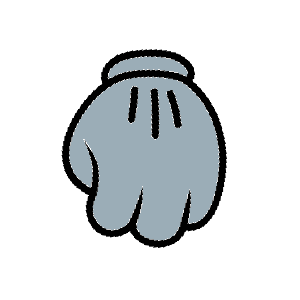
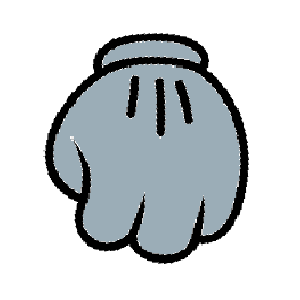
fixed image sizing, added classes to highlight the choices made in the game a reset of the transformations

Changed region(s): [[0.15, 0.09, 0.84, 0.9]]

diff --git a/index.html b/index.html
@@ -15,23 +15,34 @@
 <body>
     <h1> Rock  Paper  Scissor</h1>
 
-    <div class="computer-container">
+    <!-- <div class="computer-container">
         <img src="images/computer.png">
-    </div>
+    </div> -->
 
     <div class="computer-selection">
-        <img src="images/rockC.png">
-        <img src="images/paperC.png">
-        <img src="images/scissorC.png">
+        <img src="images/rockC.png" id="rockC">
+        <img src="images/paperC.png" id="paperC">
+        <img src="images/scissorC.png" id="scissorC">
     </div>
     
 
-    <div class="main-screen"></div>
+    <div class="main-screen">
+        <div class="screen-container">
+            <div class="scoreboard">
+                <div class="player-score">Player Score: 0</div>
+                <div class="round-number">Round 1</div>
+                <div class="computer-score"> Computer Score: 0</div>
+            </div>
+            <div class="screen">Make your choice!</div>
+        </div>
+    
+    </div>
 
-    <img src="images/rockP.png" class="btn btn-rock">
-    <img src="images/paperP.png" class="btn btn-paper">
-    <img src="images/scissorP.png" class="btn btn-scissor">
-
+    <div class="player-selection">
+        <img src="images/rockP.png" class="btn btn-rock" id="rock">
+        <img src="images/paperP.png" class="btn btn-paper" id="paper">
+        <img src="images/scissorP.png" class="btn btn-scissor" id="scissor">
+    </div>
 
     <script>
         function getComputerChoice() {
@@ -49,20 +60,41 @@
         function playRound(playerSelection) {
             const computerSelection = getComputerChoice()
             const playerChoice = playerSelection.toLowerCase()
+            resetTransform()
 
             if (computerSelection === playerChoice) {
+                transformPlayedChoice(`#${computerSelection}`)
+                transformPlayedChoice(`#${computerSelection}C`)
                 return "Its a Draw!"
+
             } else if (computerSelection === "rock" && playerChoice === "paper") {
+                transformPlayedChoice(`#${playerChoice}`)
+                transformPlayedChoice(`#${computerSelection}C`)
                 return "You Win! Paper beats rock"
+
             } else if (computerSelection === "rock" && playerChoice === "scissor") {
+                transformPlayedChoice(`#${playerChoice}`)
+                transformPlayedChoice(`#${computerSelection}C`)
                 return "You Lose! Rock beats scissor"
+
             } else if (computerSelection === "paper" && playerChoice === "rock") {
+                transformPlayedChoice(`#${playerChoice}`)
+                transformPlayedChoice(`#${computerSelection}C`)
                 return "You Lose! Paper beats rock"
+
             } else if (computerSelection === "paper" && playerChoice === "scissor") {
+                transformPlayedChoice(`#${playerChoice}`)
+                transformPlayedChoice(`#${computerSelection}C`)
                 return "You Win! Scissor beats paper"
+
             } else if (computerSelection === "scissor" && playerChoice === "rock") {
+                transformPlayedChoice(`#${playerChoice}`)
+                transformPlayedChoice(`#${computerSelection}C`)
                 return "You Win! Rock beats scissor"
+
             } else if (computerSelection === "scissor" && playerChoice === "paper") {
+                transformPlayedChoice(`#${playerChoice}`)
+                transformPlayedChoice(`#${computerSelection}C`)
                 return "You Lose! Scissor beats paper"
             }
         }
@@ -80,14 +112,31 @@
         const buttons = document.querySelectorAll('.btn')
         buttons.forEach((button) => {
             button.addEventListener('click', () => {
-                writeOnMainScreen(playRound(`${button.textContent}`))
+                writeOnMainScreen(playRound(`${button.id}`))
             })
         })
 
+
+
+        
         function writeOnMainScreen(string) {
-            let mainScreen = document.querySelector(".main-screen")
+            let mainScreen = document.querySelector(".screen")
             mainScreen.textContent = string
         }
+
+        function transformPlayedChoice(choice) {
+            const selection = document.querySelector(`${choice}`)
+            selection.classList.add('played')
+        }
+
+        function resetTransform() {
+            const transformedClasses = document.querySelectorAll('.played')
+            console.log(transformedClasses)
+            transformedClasses.forEach( (transed) => { 
+                transed.classList.remove('played')
+            })
+        }
+
 
     </script>
 </body>

diff --git a/style.css b/style.css
@@ -19,18 +19,60 @@ h1 {
 }
 
 img {
-    max-width: 200px;
+    max-width: 150px;
 }
 
 .computer-container img {
     max-width: 300px;
 }
 
-.computer-selection {
+.computer-selection, .player-selection {
     display: flex;
     justify-content:center;
     gap: 5rem;
+    padding-top: 2rem;
+}
 
+
+.main-screen {
+    display: flex;
+    justify-content: center;
+    min-height: 100px;
+    margin: 75px;
+}
+ 
+
+.screen-container {
+    display:flex;
+    flex-direction: column;
+    display:flex;
+    /* background-color: white; */
+    min-height: 100px;
+    width: 80%;
+    align-items: center;
+    justify-content: space-between;
+    font-size: 2rem;
+}
+
+.scoreboard {
+    display:flex;
+    justify-content: space-between;
+    align-items: center;
+    width:100%
+}
+
+.screen {
+    margin-top: 5rem;
+}
+
+
+.player-selection img:hover {
+    cursor: pointer;
+    /* transform:scale(1.1) */
+}
+
+.played {
+    transform:scale(1.5);
 }
 
   
